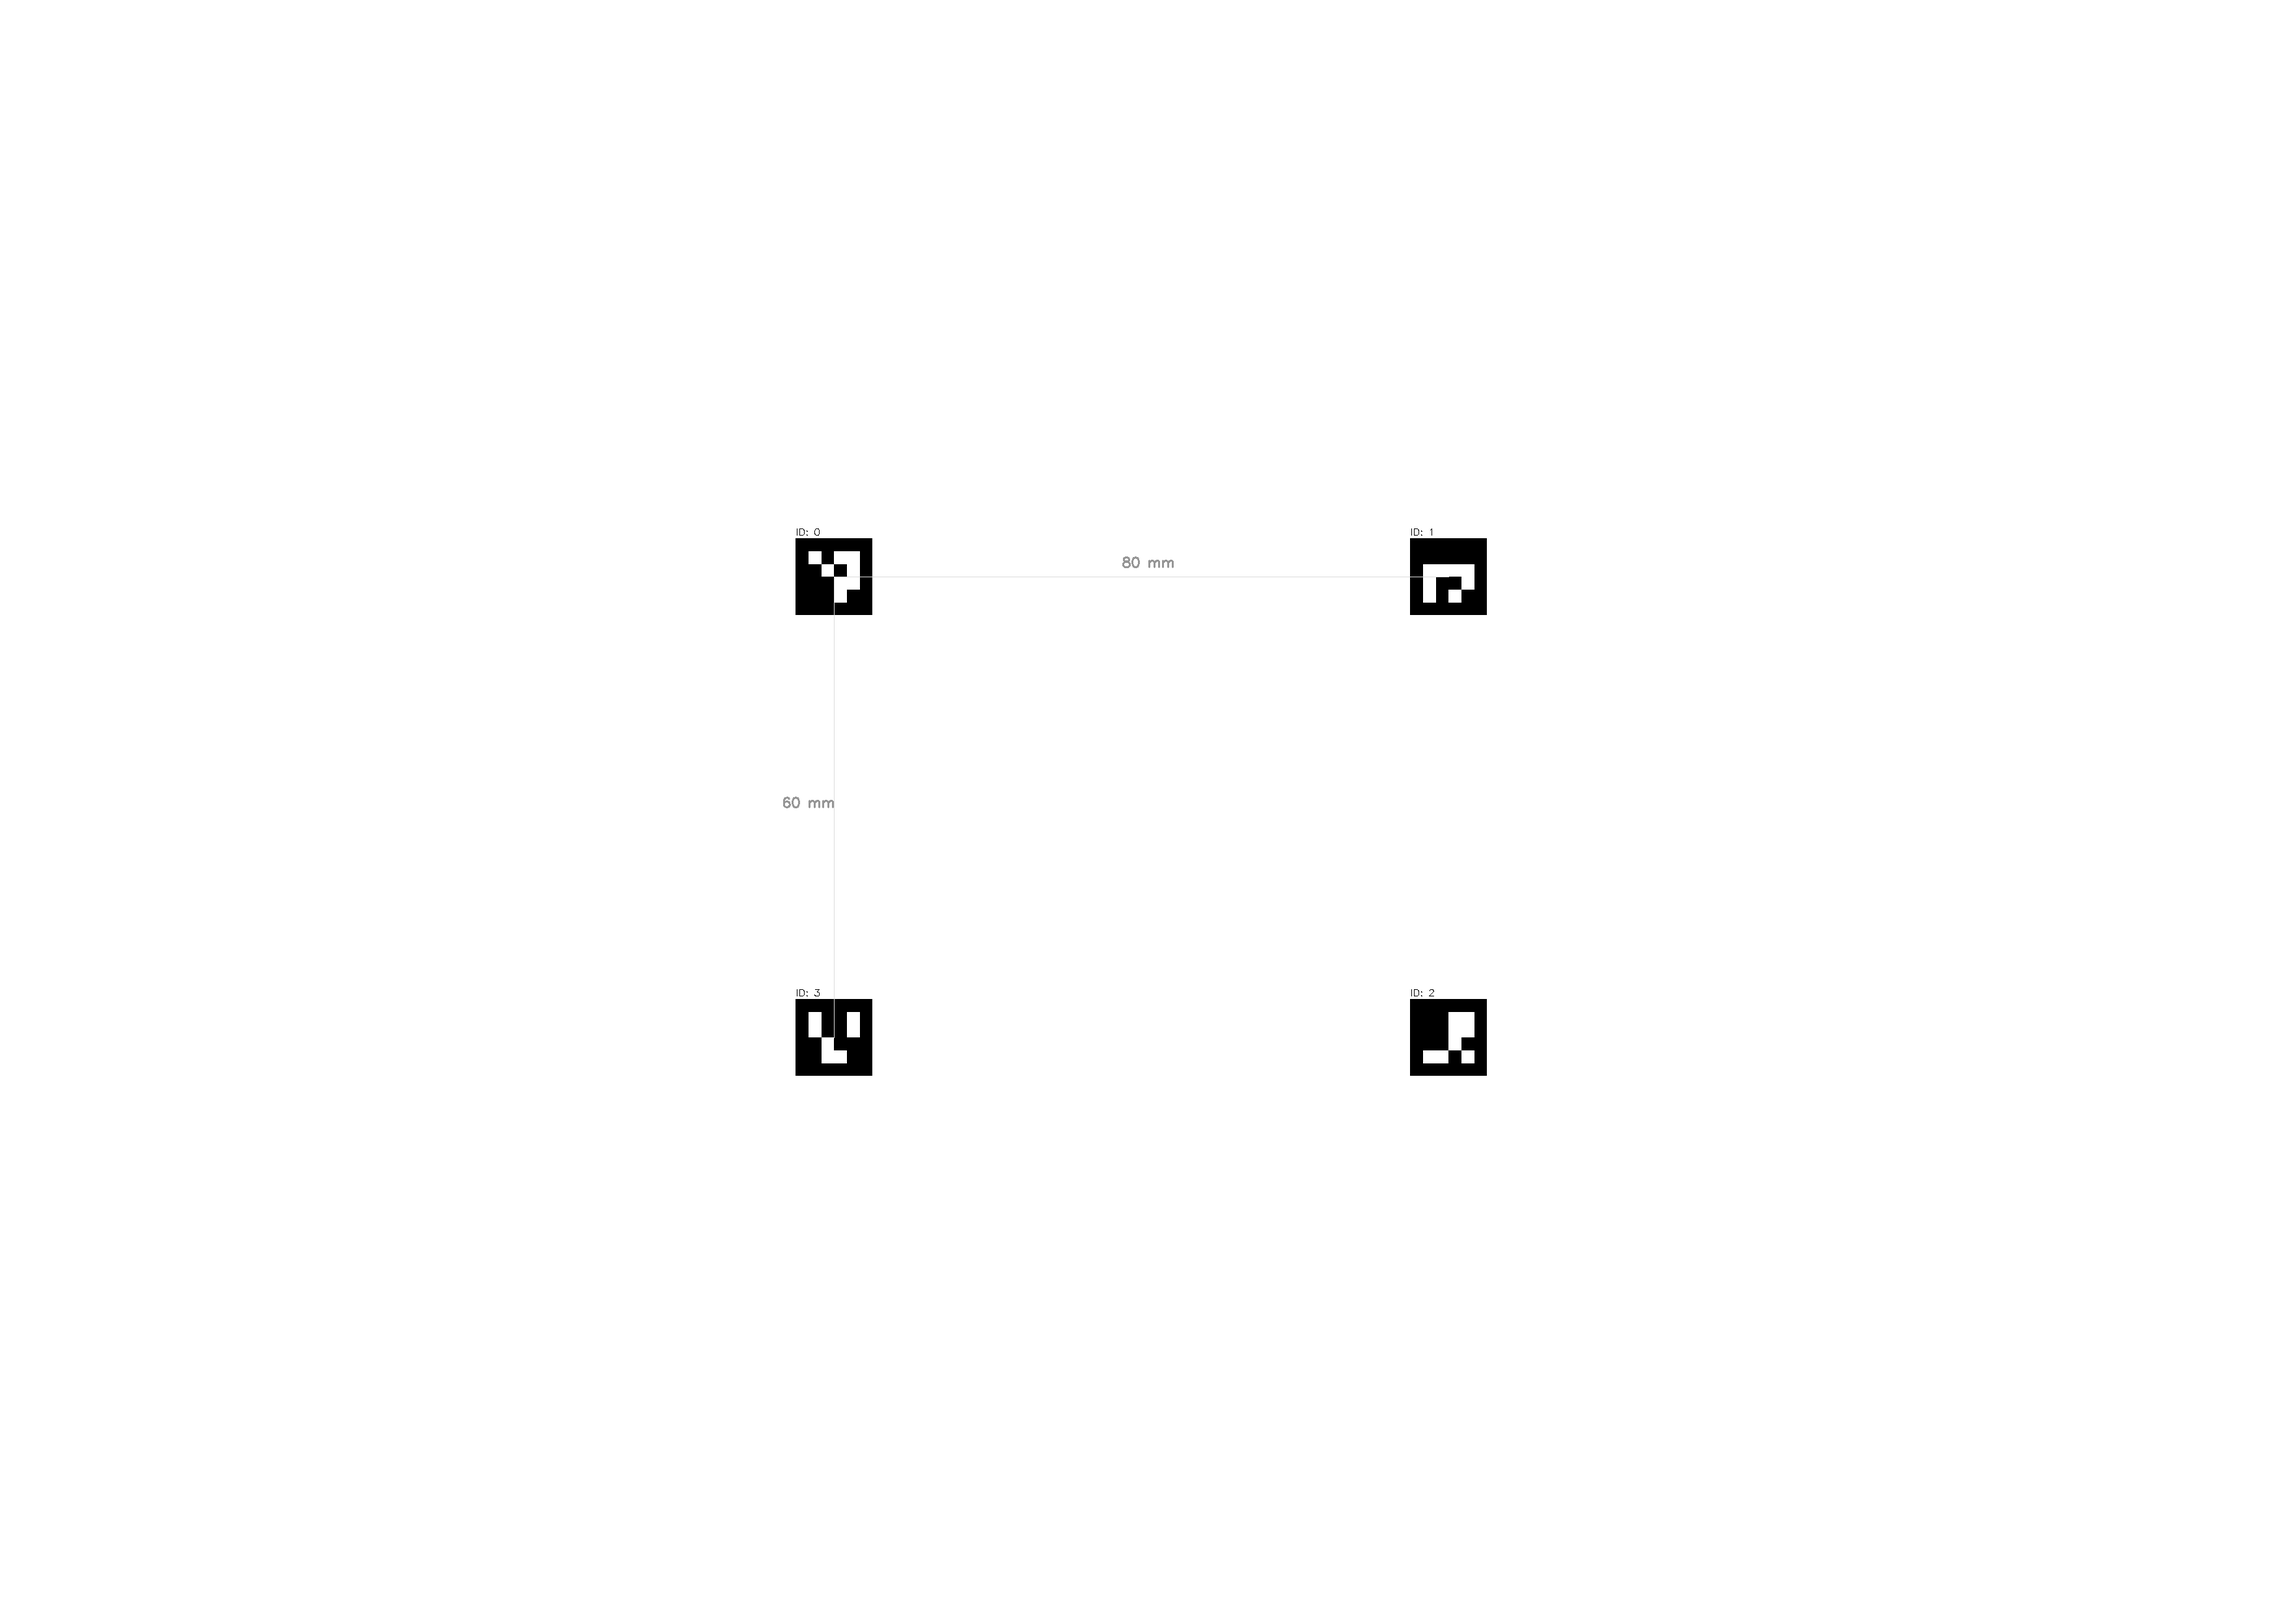
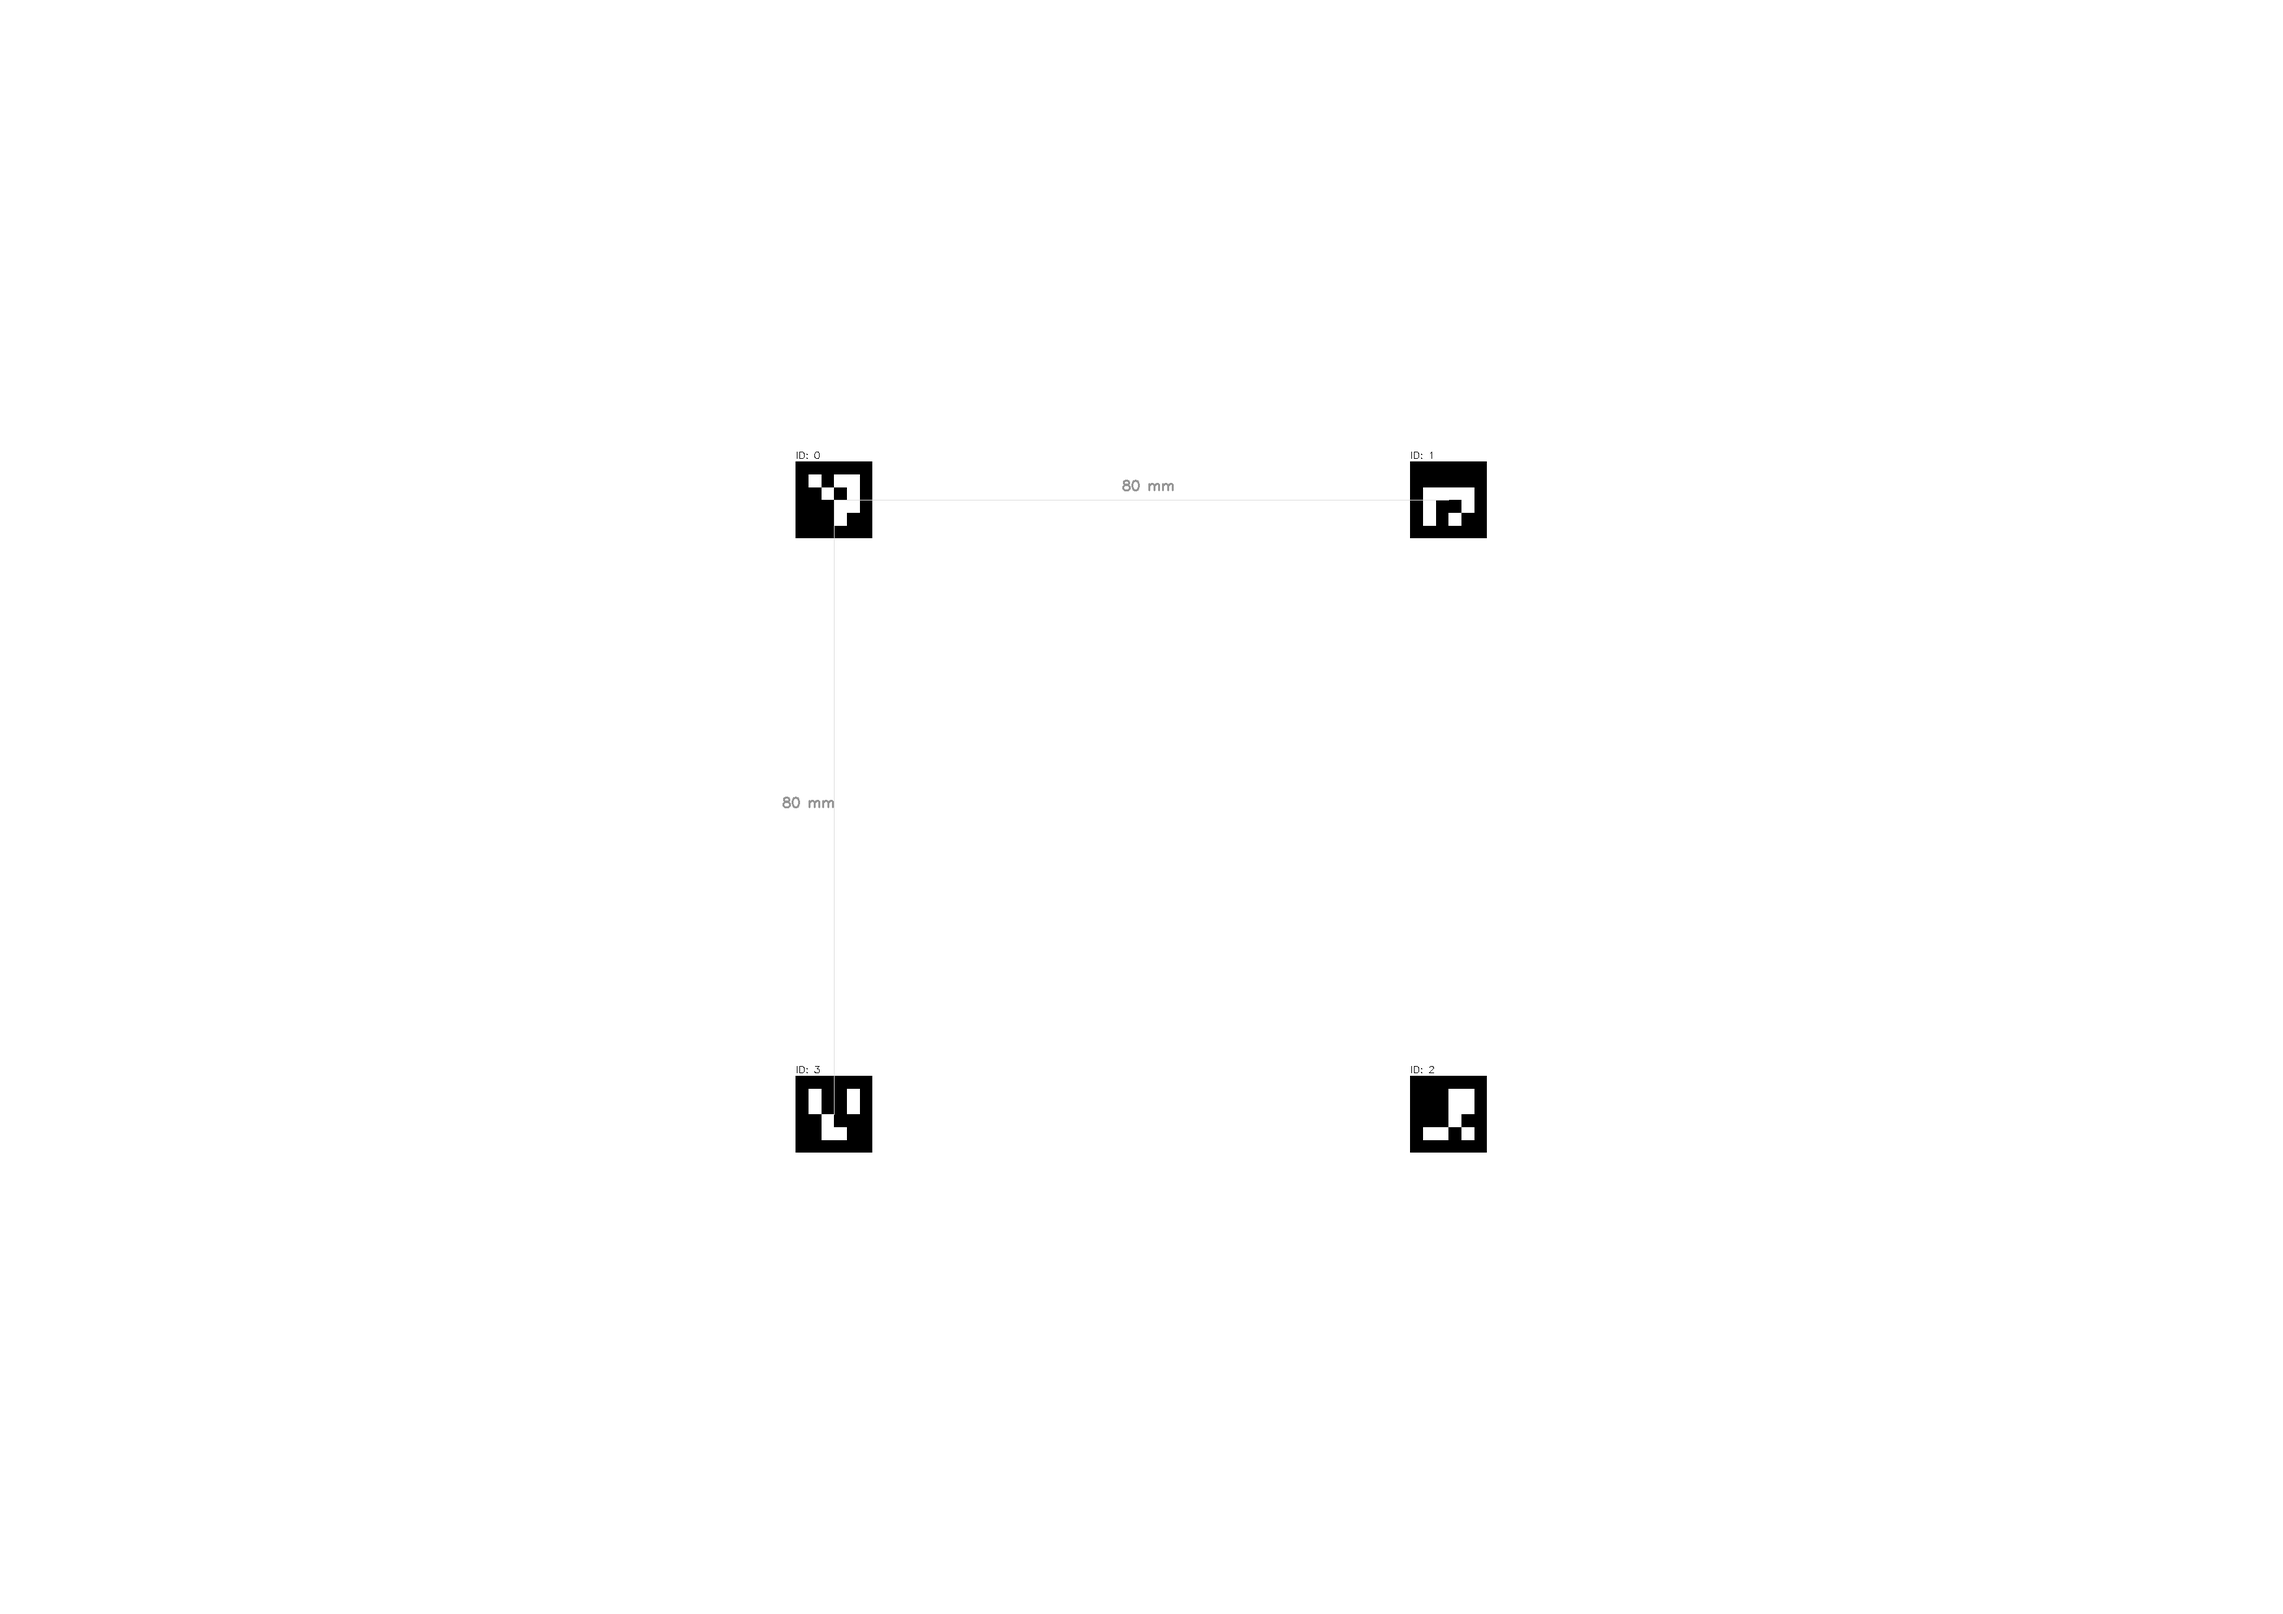
80 by 80 mm

diff --git a/aruco_generate.py b/aruco_generate.py
@@ -91,7 +91,7 @@ def create_small_calibration_sheet():
                 cv2.FONT_HERSHEY_SIMPLEX, 0.7, (150, 150, 150), 2)
 
     # Save
-    filename = "calibration_sheet_small_80x60.png"
+    filename = "calibration_sheet_small_80x80.png"
     cv2.imwrite(filename, img)
     print(f"✓ Saved to {filename}")
     print("IMPORTANT: Print at 100% Scale (Do not Scale to Fit)")
